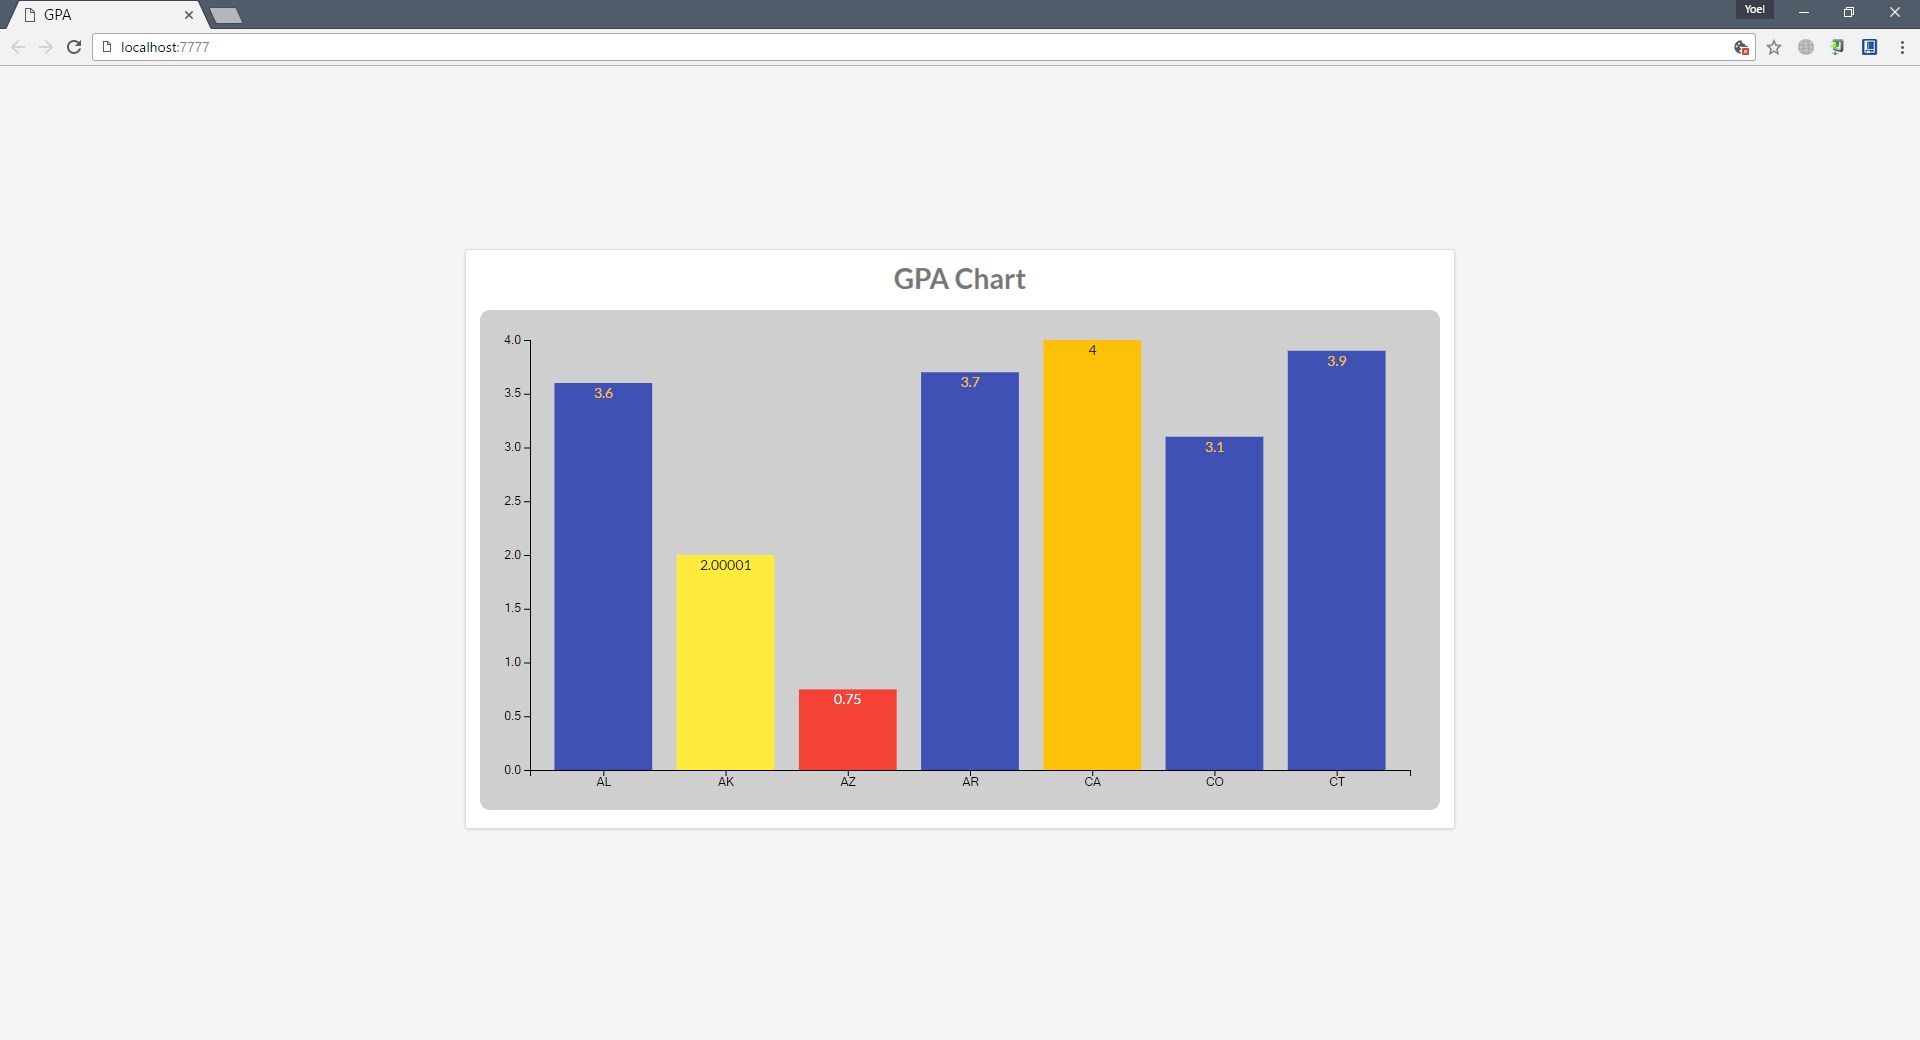
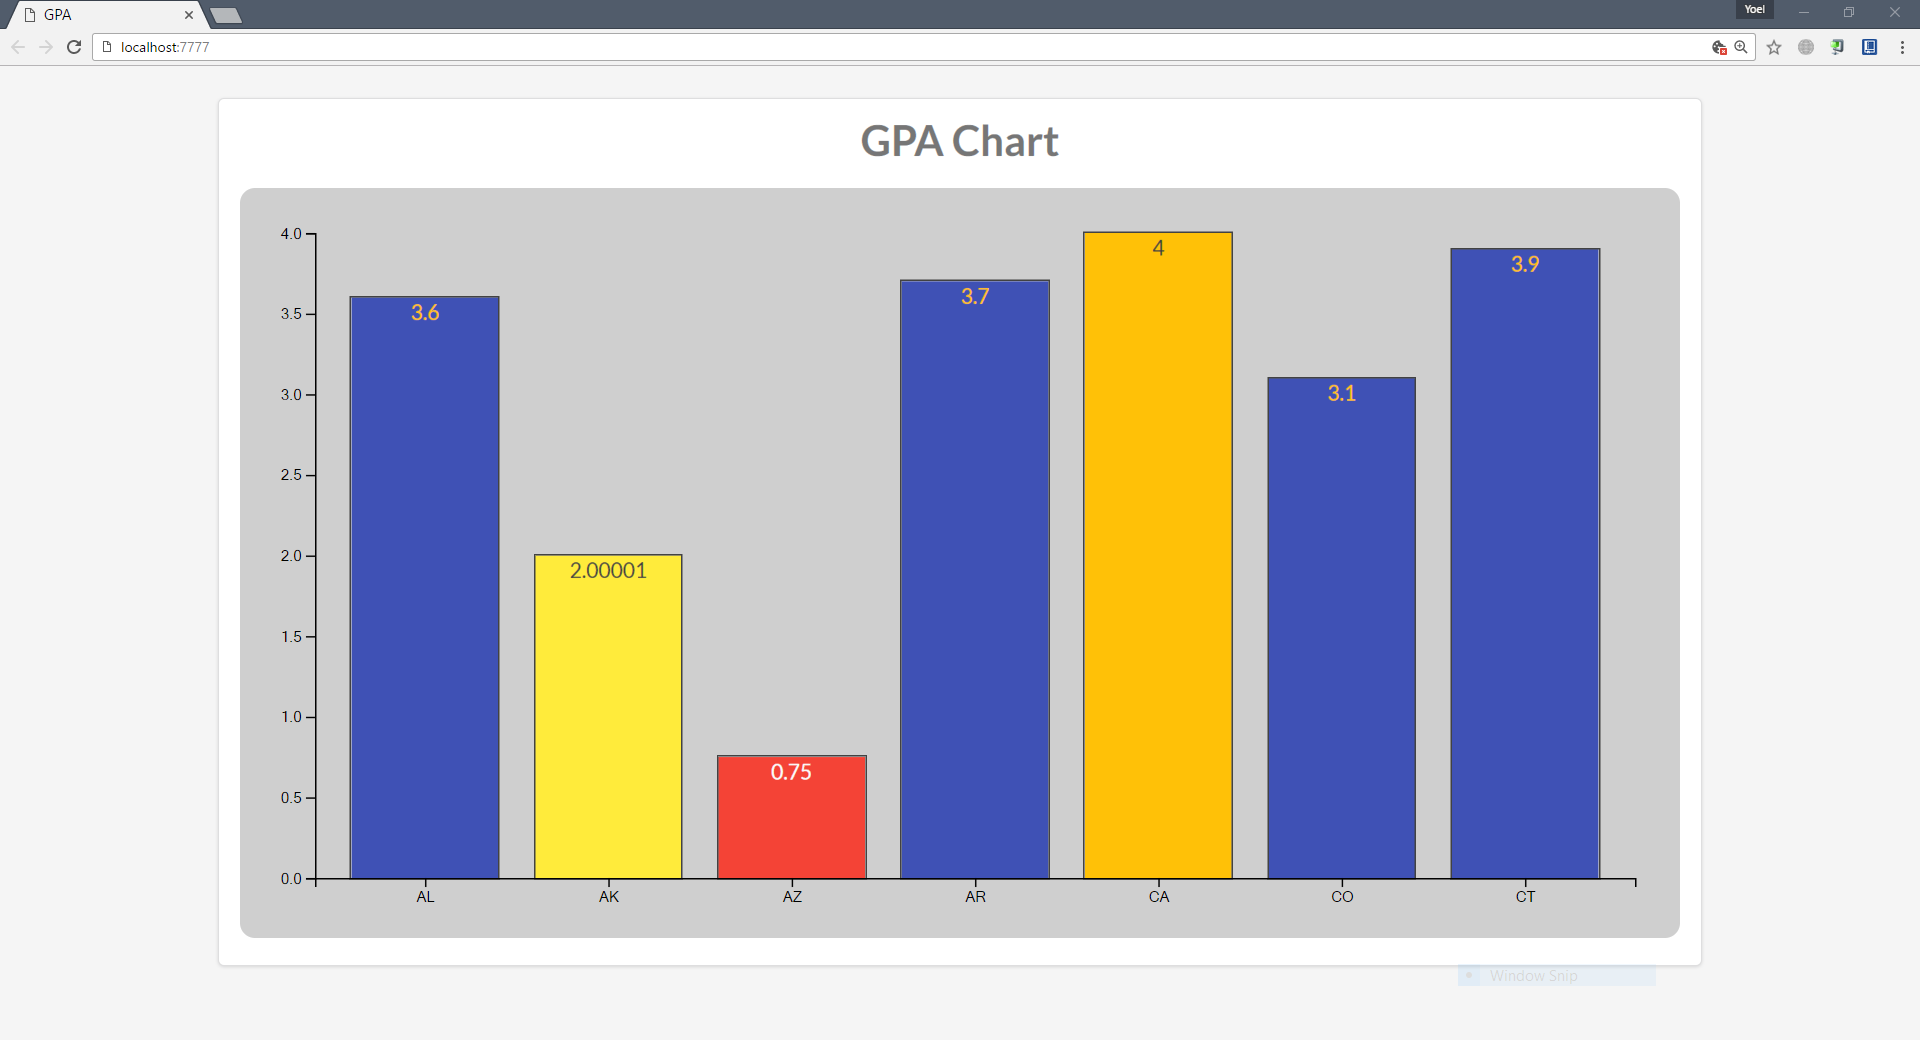
add screenshot

diff --git a/src/main.js b/src/main.js
@@ -28,13 +28,13 @@ const drawBarGraph = (bardata, labelx, labely) => {
         if (d < 1) {
             return "#FAFAFA";
         } else if (d < 2) {
-            return "#212121";
+            return "#424242";
         } else if (d < 3) {
-            return "#212121";
+            return "#424242";
         } else if (d < 4) {
             return "#FFC107";
         } else {
-            return "#212121";
+            return "#424242";
         }
     };
     const xLabelScale = d3.scaleBand()
@@ -71,6 +71,7 @@ const drawBarGraph = (bardata, labelx, labely) => {
                     .attr("x", (d, i) => xScale(i))
                     .attr("height", () => 0)
                     .attr("y", () => height)
+                    .style("outline", "1px solid #424242")
                     .on("mouseenter", function (data) {
                         d3.select(this).style("opacity", .5);
                     }).on("mouseleave",
